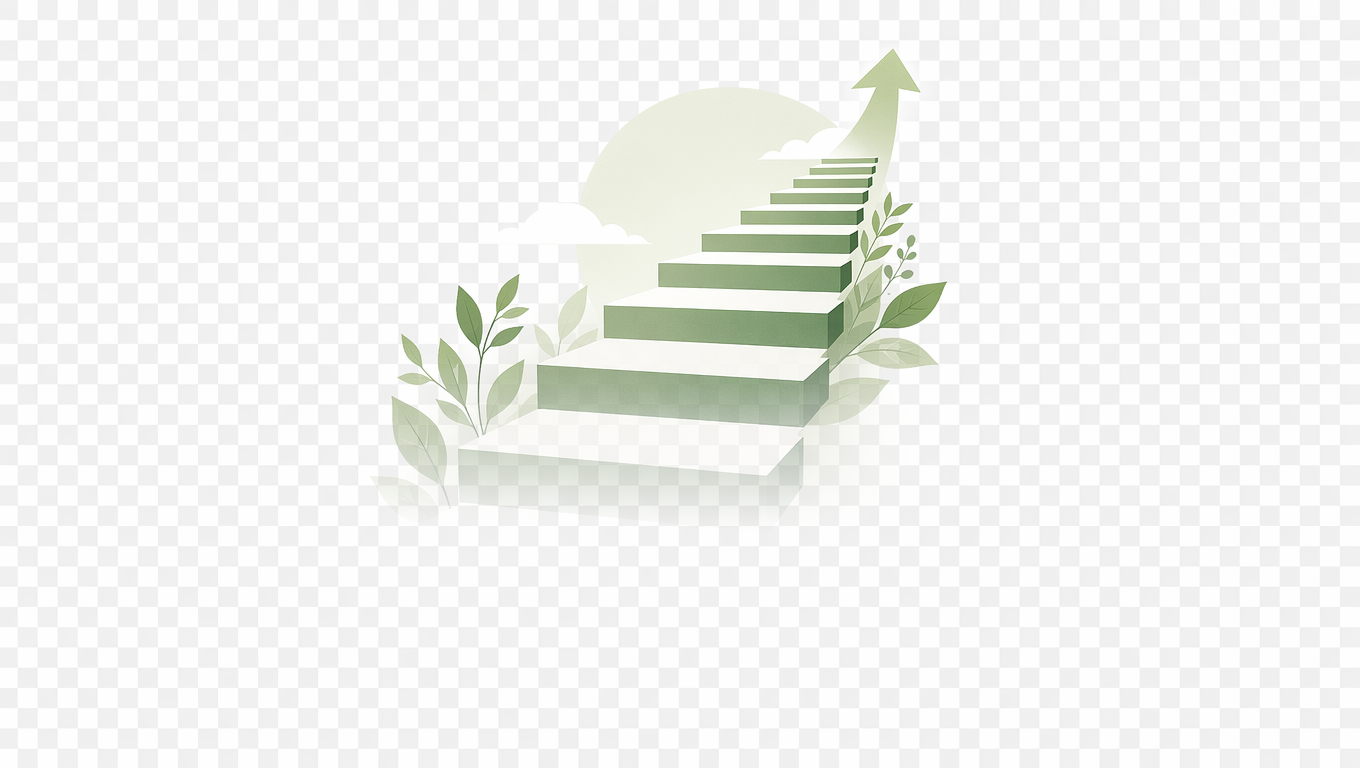
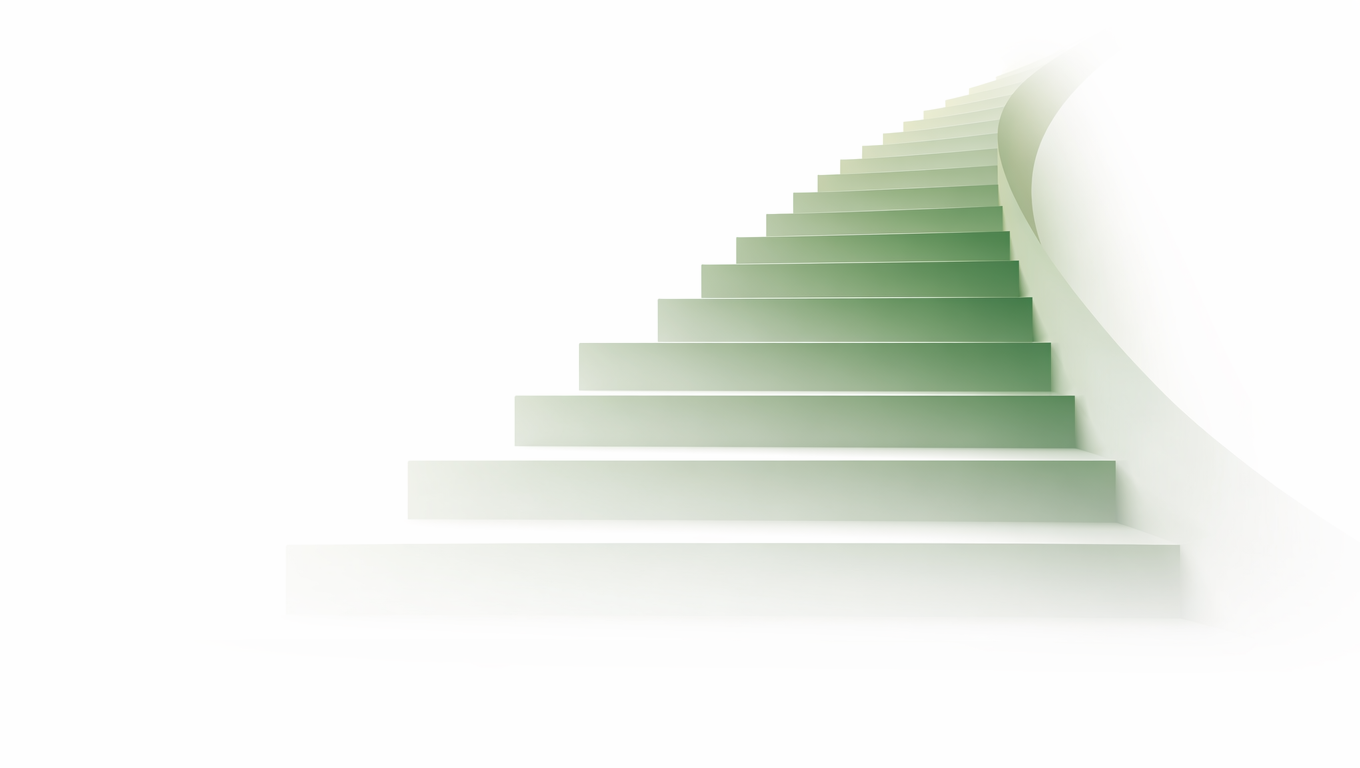
Merge pull request #19 from noexcuse-no/feature/pr-adjustments
Feature/pr adjustments

Pull request: Feature/pr adjustments

Changed region(s): [[0.2779, 0.0625, 0.8956, 0.8125], [0.4015, 0.6562, 0.4324, 0.6875]]

diff --git a/assets/css/styles-dark.css b/assets/css/styles-dark.css
@@ -109,3 +109,74 @@ a:hover {
     background-color: var(--box-background-dark);
     box-shadow: var(--box-shadow-dark);
 }
+
+#profiles {
+    background-color: var(--background-color-dark);
+}
+
+.profile {
+    background-color: var(--background-color-dark);
+}
+
+.profile-compact {
+    background: var(--box-background-dark);
+    box-shadow: var(--box-shadow-dark);
+}
+
+.profile-compact:hover {
+    box-shadow: var(--box-shadow-dark);
+}
+
+.profile-image {
+    border-color: var(--box-background-dark);
+}
+
+.profile-name {
+    color: var(--text-color-dark);
+}
+
+.profile-contact {
+    color: var(--text-color-dark);
+}
+
+.profile-expand-btn {
+    color: var(--link-color-dark);
+}
+
+.profile-expanded {
+    background: rgba(0, 0, 0, 0.8);
+}
+
+.profile-modal-content {
+    background: var(--box-background-dark);
+    color: var(--text-color-dark);
+}
+
+.profile-header-info .profile-name {
+    color: var(--text-color-dark);
+}
+
+.profile-tags {
+    color: var(--text-color-dark);
+}
+
+.profile-bio {
+    color: var(--text-color-dark);
+    border-color: rgba(255, 255, 255, 0.1);
+}
+
+.profile-contact-grid {
+    border-color: rgba(255, 255, 255, 0.1);
+}
+
+.profile-contact-item {
+    color: var(--link-color-dark);
+}
+
+.profile-details {
+    color: var(--text-color-dark);
+}
+
+.product-cta-footer {
+    background-color: var(--background-color-dark);
+}

diff --git a/assets/css/avtale.css b/assets/css/avtale.css
@@ -5,10 +5,7 @@
 }
 
 .avtale-logo {
-    display: block;
-    max-width: 300px;
-    height: auto;
-    margin: 0 auto 40px;
+    display: none;
 }
 
 .avtale-page h1 {
@@ -39,35 +36,43 @@
 }
 
 @media (max-width: 768px) {
-    .avtale-logo {
-        max-width: 200px;
-    }
-
     .avtale-page h1 {
         font-size: 1.5em;
     }
 }
 
 @media print {
+    body {
+        background: white;
+        color: black;
+        font-size: 12pt;
+        line-height: 1.5;
+    }
+
+    header, footer, nav, .navbar, .banner, .product-cta, .product-link, .avtale-page > *:not(.avtale-logo):not(h1):not(.avtale-meta):not(h2):not(p):not(ul):not(li) {
+        display: none !important;
+    }
+
     .avtale-page {
         max-width: 100%;
-        padding: 20px;
+        padding: 0;
         margin: 0;
     }
 
     .avtale-logo {
-        max-width: 200px;
-        margin-bottom: 30px;
+        display: block;
+        max-width: 250px;
+        margin: 0 auto 60px;
     }
 
     .avtale-page h1 {
         font-size: 18pt;
-        margin-bottom: 6px;
+        margin-bottom: 8px;
     }
 
     .avtale-meta {
         font-size: 10pt;
-        margin-bottom: 30px;
+        margin-bottom: 40px;
     }
 
     .avtale-page h2 {
@@ -75,7 +80,7 @@
         margin-top: 24px;
         margin-bottom: 12px;
         padding-bottom: 4px;
-        border-bottom: 1px solid #ccc;
+        border-bottom: 1px solid #333;
         page-break-after: avoid;
     }
 
@@ -87,23 +92,9 @@
         widows: 3;
     }
 
-    header, footer, nav, .navbar, .banner, .product-cta, .product-link {
-        display: none !important;
-    }
-
-    body {
-        background: white;
-        color: black;
-        font-size: 11pt;
-    }
-
     a {
         color: black;
         text-decoration: none;
-    }
-
-    .avtale-page {
-        padding: 0;
     }
 
     h1, h2 {

diff --git a/assets/css/products.css b/assets/css/products.css
@@ -36,7 +36,7 @@
 .product-hero-image img {
     max-width: 100%;
     height: auto;
-    border-radius: 12px;
+    border-radius: 16px;
 }
 
 .product-cta {
@@ -55,6 +55,10 @@
 
 .product-cta:hover {
     opacity: 0.85;
+}
+
+.product-cta--spaced {
+    margin-left: 16px;
 }
 
 .product-cta--secondary {
@@ -135,7 +139,7 @@
     width: 100%;
     height: auto;
     display: block;
-    border-radius: 16px;
+    border-radius: 0;
 }
 
 .landing-hero-content {
@@ -308,19 +312,34 @@
 }
 
 @media (max-width: 768px) {
-    .product-hero,
-    .landing-hero {
+    .product-hero {
+        flex-direction: column;
         text-align: center;
         gap: 24px;
+    }
+
+    .product-hero-content {
+        order: 2;
+    }
+
+    .product-hero-image {
+        order: 1;
+        flex: none;
+        width: 100%;
+    }
+
+    .landing-hero {
+        text-align: center;
     }
 
     .landing-hero-content h1 {
         font-size: 1.8em;
     }
 
-    .landing-hero-buttons {
-        flex-direction: column;
-        align-items: center;
+    .product-cta--spaced {
+        margin-left: 0;
+        margin-top: 12px;
+        display: block;
     }
 
     .product-link {
@@ -349,5 +368,10 @@
     .landing-cases,
     .landing-cta {
         padding: 40px 20px;
+    }
+
+    .landing-hero-buttons {
+        flex-direction: column;
+        align-items: center;
     }
 }

diff --git a/_includes/products.html b/_includes/products.html
@@ -8,7 +8,7 @@
             <a href="{{ product.cta_a.url }}" class="product-cta" title="{{ product.cta_a.title }}" {% if product.cta_a.modal %}onclick="openBookingModal('{{ product.cta_a.url }}'); return false;"{% endif %}>{{ product.cta_a.text }}</a>
             {% endif %}
             {% if product.cta_b %}
-            <a href="{{ product.cta_b.url }}" class="product-cta" title="{{ product.cta_b.title }}" {% if product.cta_b.modal %}onclick="openBookingModal('{{ product.cta_b.url }}'); return false;"{% endif %}>{{ product.cta_b.text }}</a>
+            <a href="{{ product.cta_b.url }}" class="product-cta product-cta--spaced" title="{{ product.cta_b.title }}" {% if product.cta_b.modal %}onclick="openBookingModal('{{ product.cta_b.url }}'); return false;"{% endif %}>{{ product.cta_b.text }}</a>
             {% endif %}
         </div>
         <div class="product-hero-image">

diff --git a/_pages/ledelse-60-2/vitenskapelig-grunnlag.md b/_pages/ledelse-60-2/vitenskapelig-grunnlag.md
@@ -200,11 +200,12 @@ json_ld:
     width: 100%;
     height: auto;
     display: block;
-    border-radius: 16px;
+    border-radius: 0;
+    margin-bottom: 0;
 }
 
 .science-hero-content {
-    padding: 40px;
+    padding: 40px 40px 0;
     text-align: center;
 }
 
@@ -360,7 +361,6 @@ json_ld:
 }
 
 .science-divider {
-    position: relative;
     margin: 40px 0;
     border-radius: 12px;
     overflow: hidden;
@@ -378,13 +378,7 @@ json_ld:
 }
 
 .science-divider-content {
-    position: absolute;
-    bottom: 0;
-    left: 0;
-    right: 0;
-    padding: 40px 24px 24px;
-    background: linear-gradient(transparent, rgba(0,0,0,0.7));
-    color: white;
+    padding: 24px 0;
 }
 
 .science-divider-content h3 {
@@ -394,7 +388,7 @@ json_ld:
 
 .science-divider-content p {
     margin: 0;
-    opacity: 0.9;
+    opacity: 0.7;
     font-size: 0.95em;
 }
 

diff --git a/_products/ledelse-60-2.md b/_products/ledelse-60-2.md
@@ -10,7 +10,7 @@ cta_a:
 cta_b:
   text: "Les mer om metoden →"
   title: "Les mer"
-  url: "/ledelse-60-2/vitenskapelig-grunnlag/"
+  url: "/ledelse-60-2/"
   modal: false
 cta_c:
   text: "Book en uforpliktende samtale"